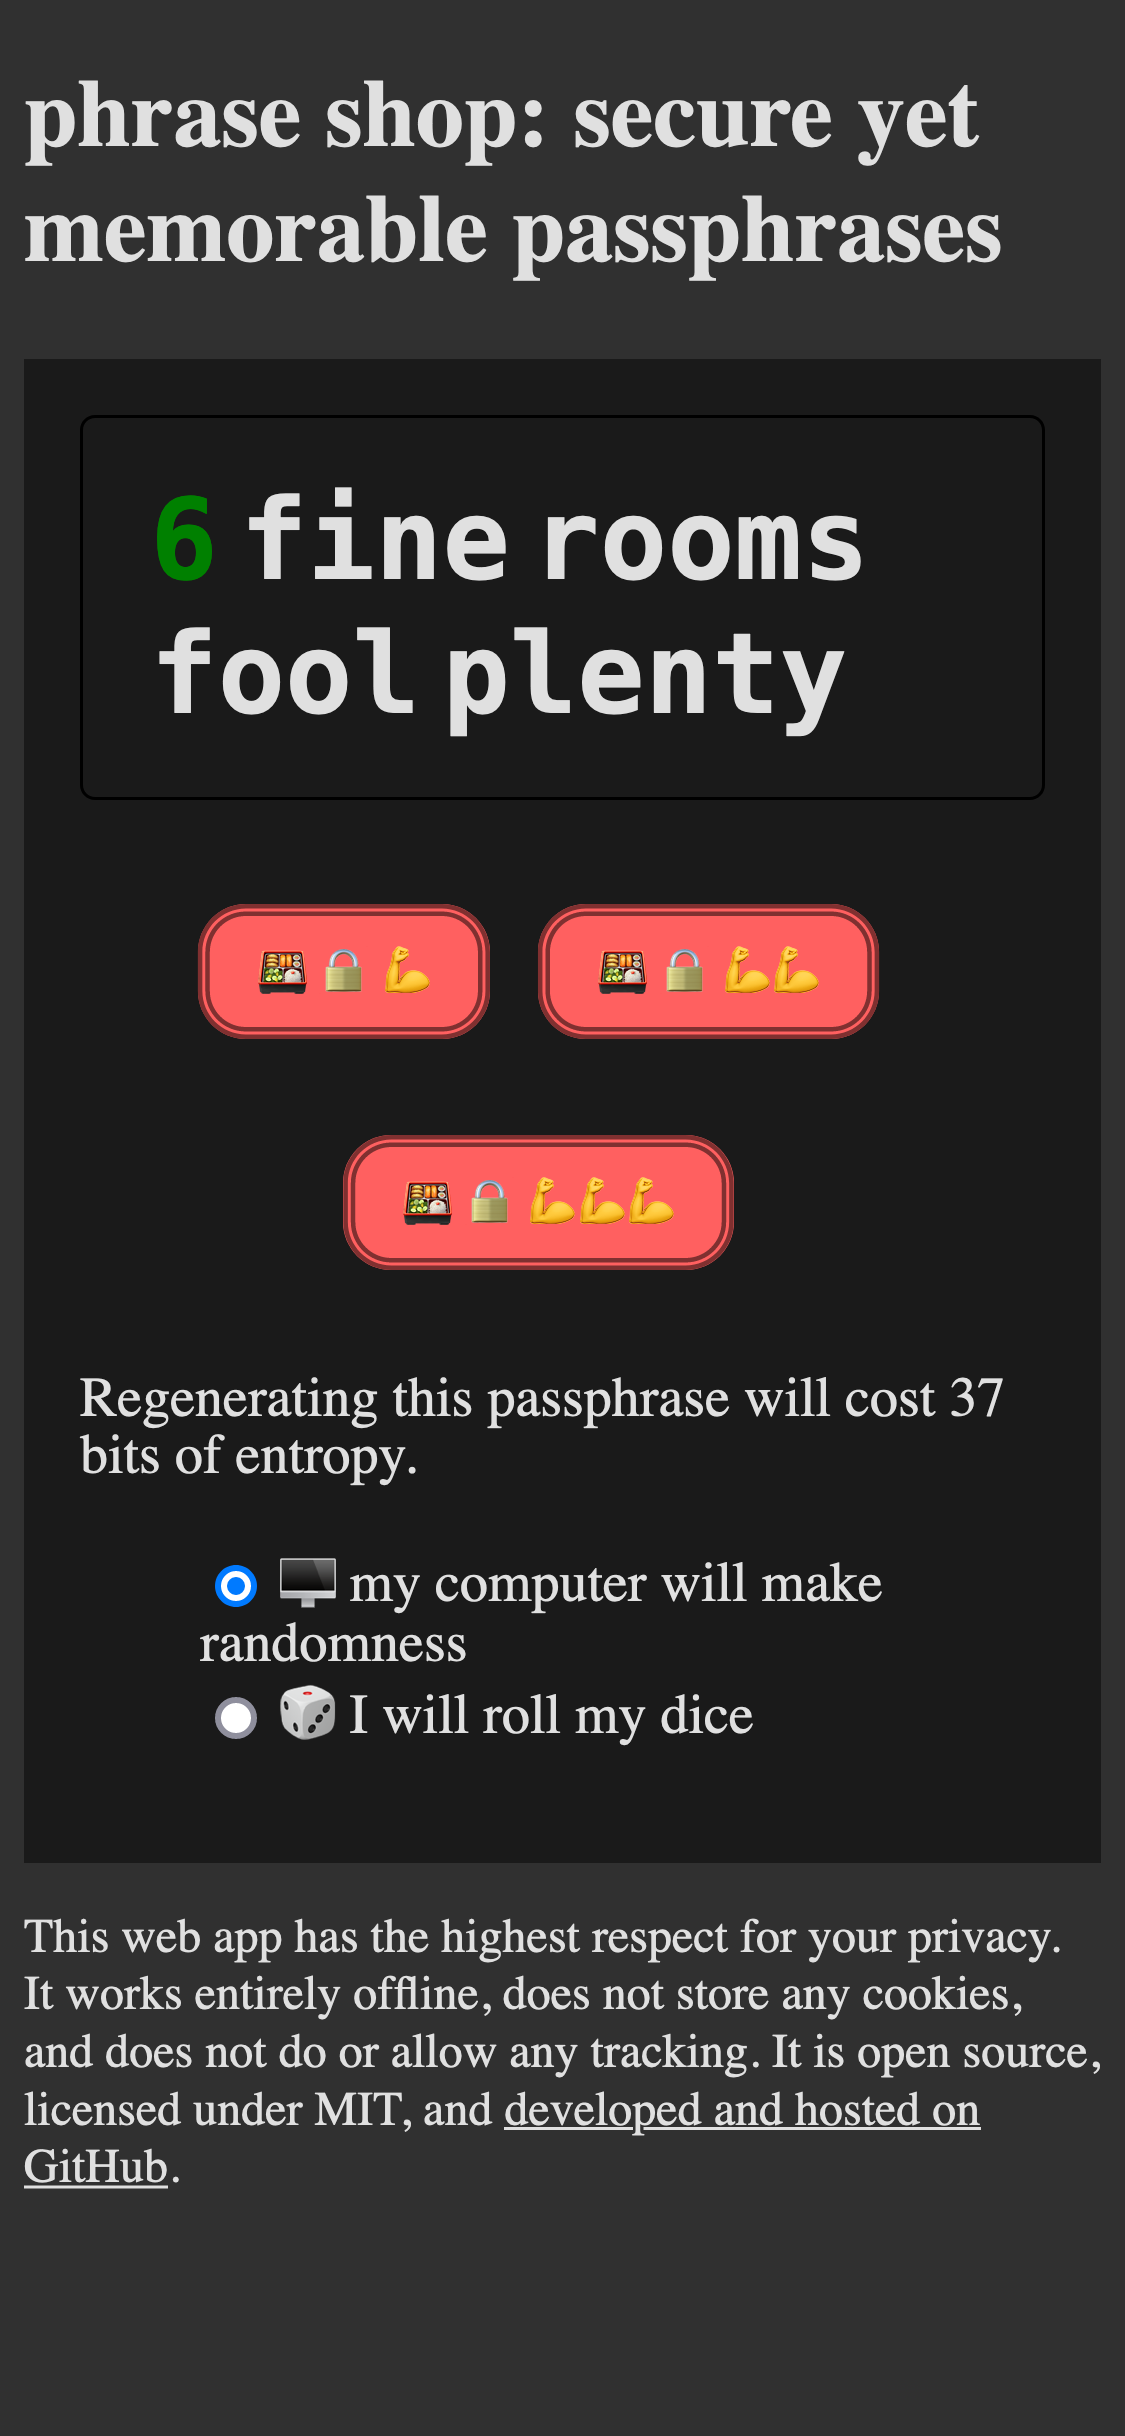
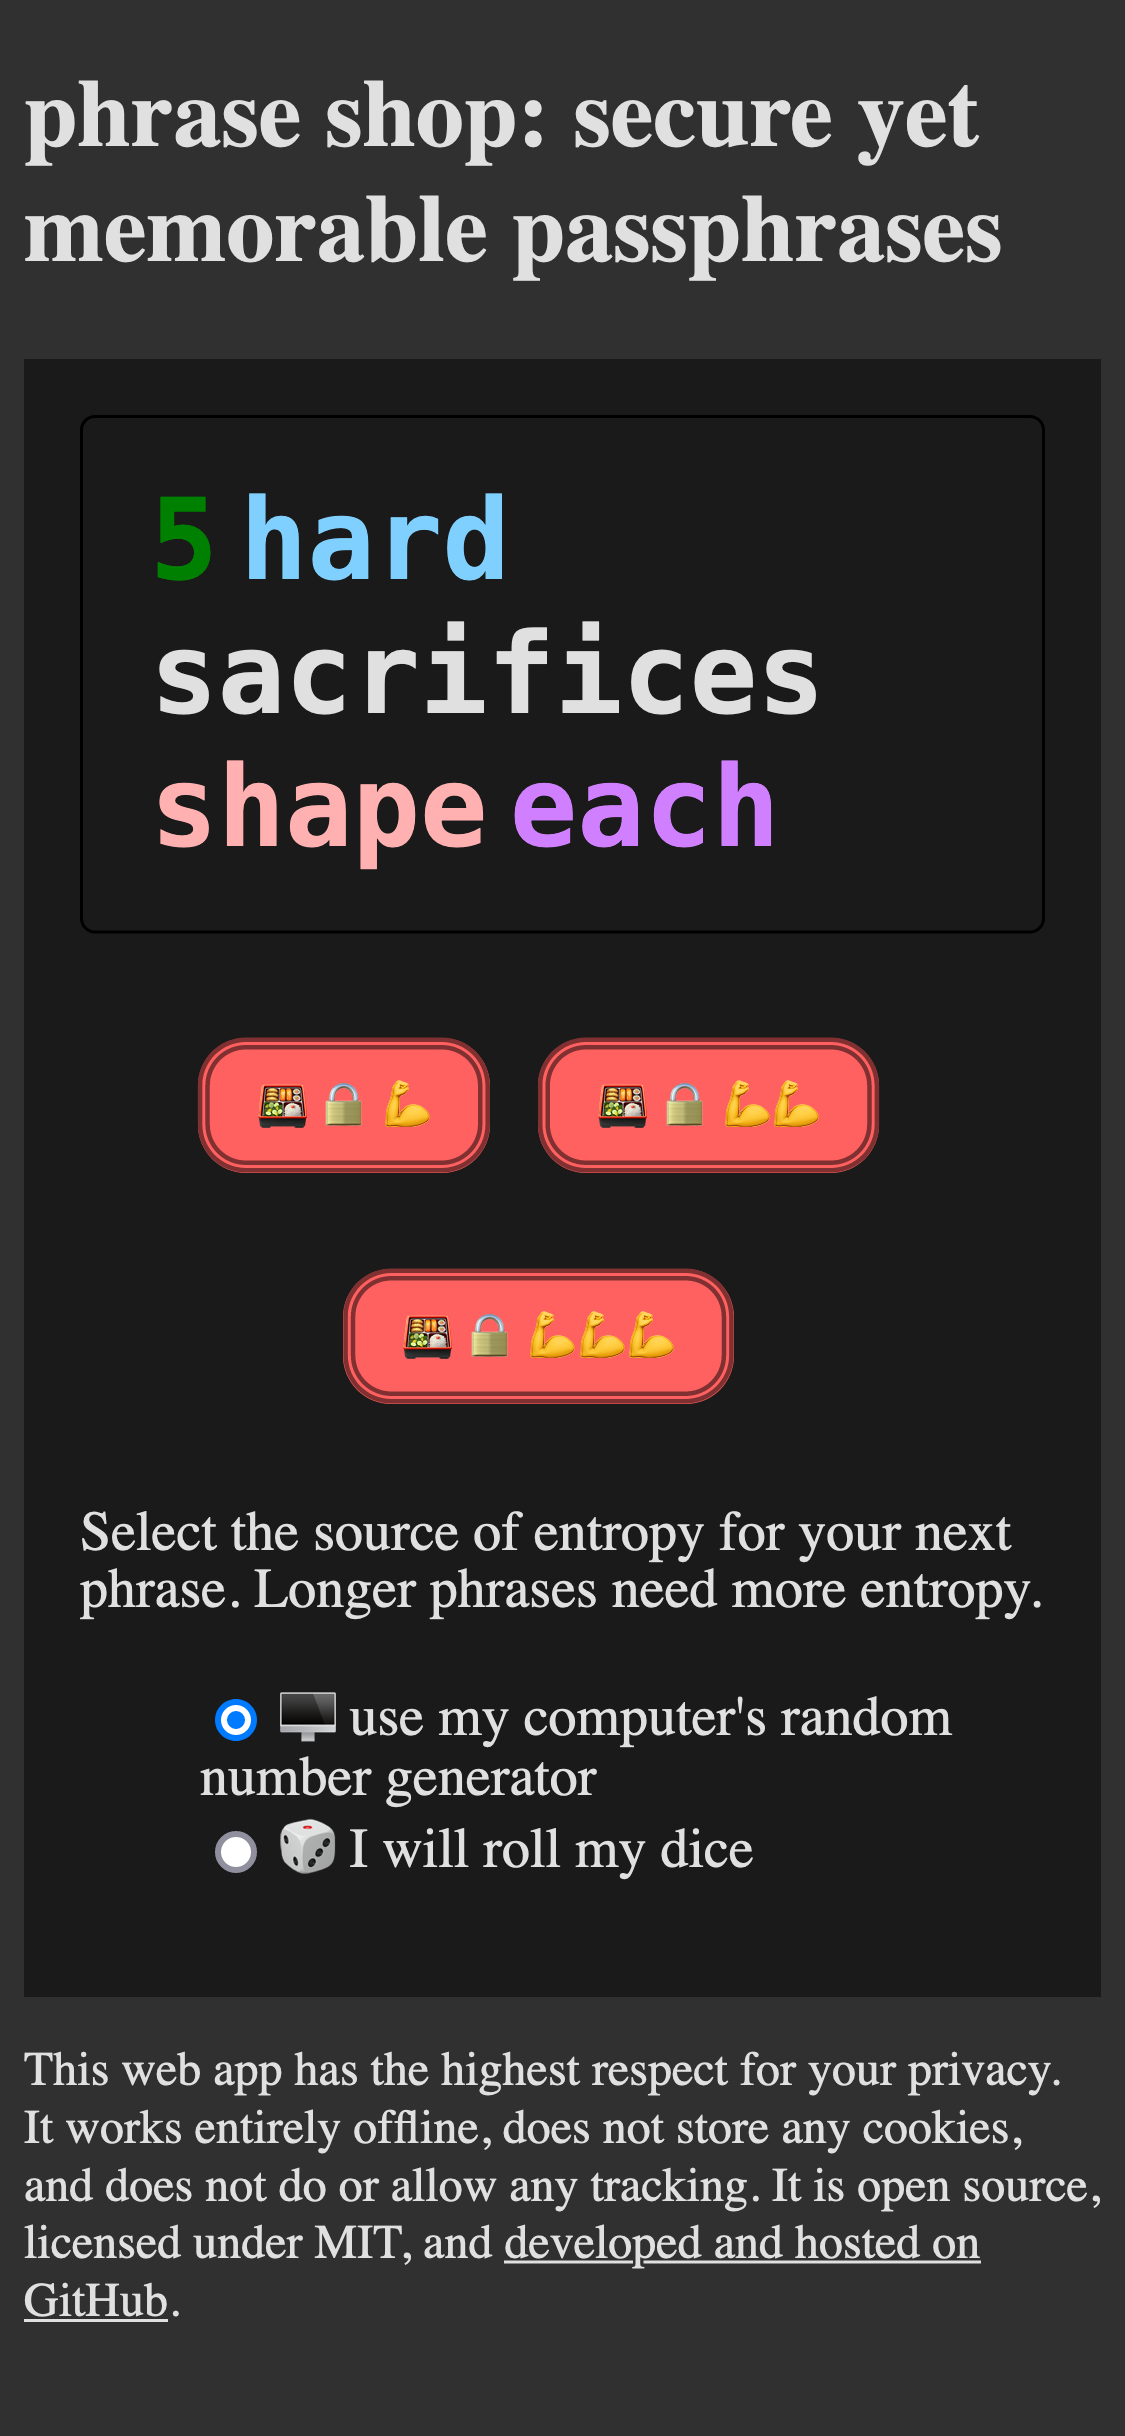
Improve color-coding of phrase parts (resolve #36)

Changed region(s): [[0.0, 0.1872, 0.9644, 0.9672]]

diff --git a/docs/index.html b/docs/index.html
@@ -162,7 +162,11 @@
 
         .part.unset { font-style: italic; font-weight: lighter; } /* customer should never see this one anyway */
 
+        .part.type-verb { color: #603030; }
+        .part.type-adjective { color: #307080; }
+        .part.type-adverb { color: #d080d0; }
         .part.type-color { color: #303080; }
+        .part.type-conjunction { color: #ff0000; } /* deep red to separate sub-phrases */
         .part.type-digit { color: green; }
         .part.type-symbol { color: #803030; }
 
@@ -216,6 +220,12 @@
                 /* copy of animation's `to` */
                 color: #202020; /* slightly lighter than approot background color */
             }
+
+            .part.type-verb { color: #ffb0b0; }
+            .part.type-adjective { color: #80d0ff; }
+            .part.type-adverb { color: #d080ff; }
+            .part.type-color { color: #d0d0ff; }
+            .part.type-conjunction { color: #ff0000; } /* deep red to separate sub-phrases */
             .part.type-symbol { color: darkgrey; }
         }
     </style>
